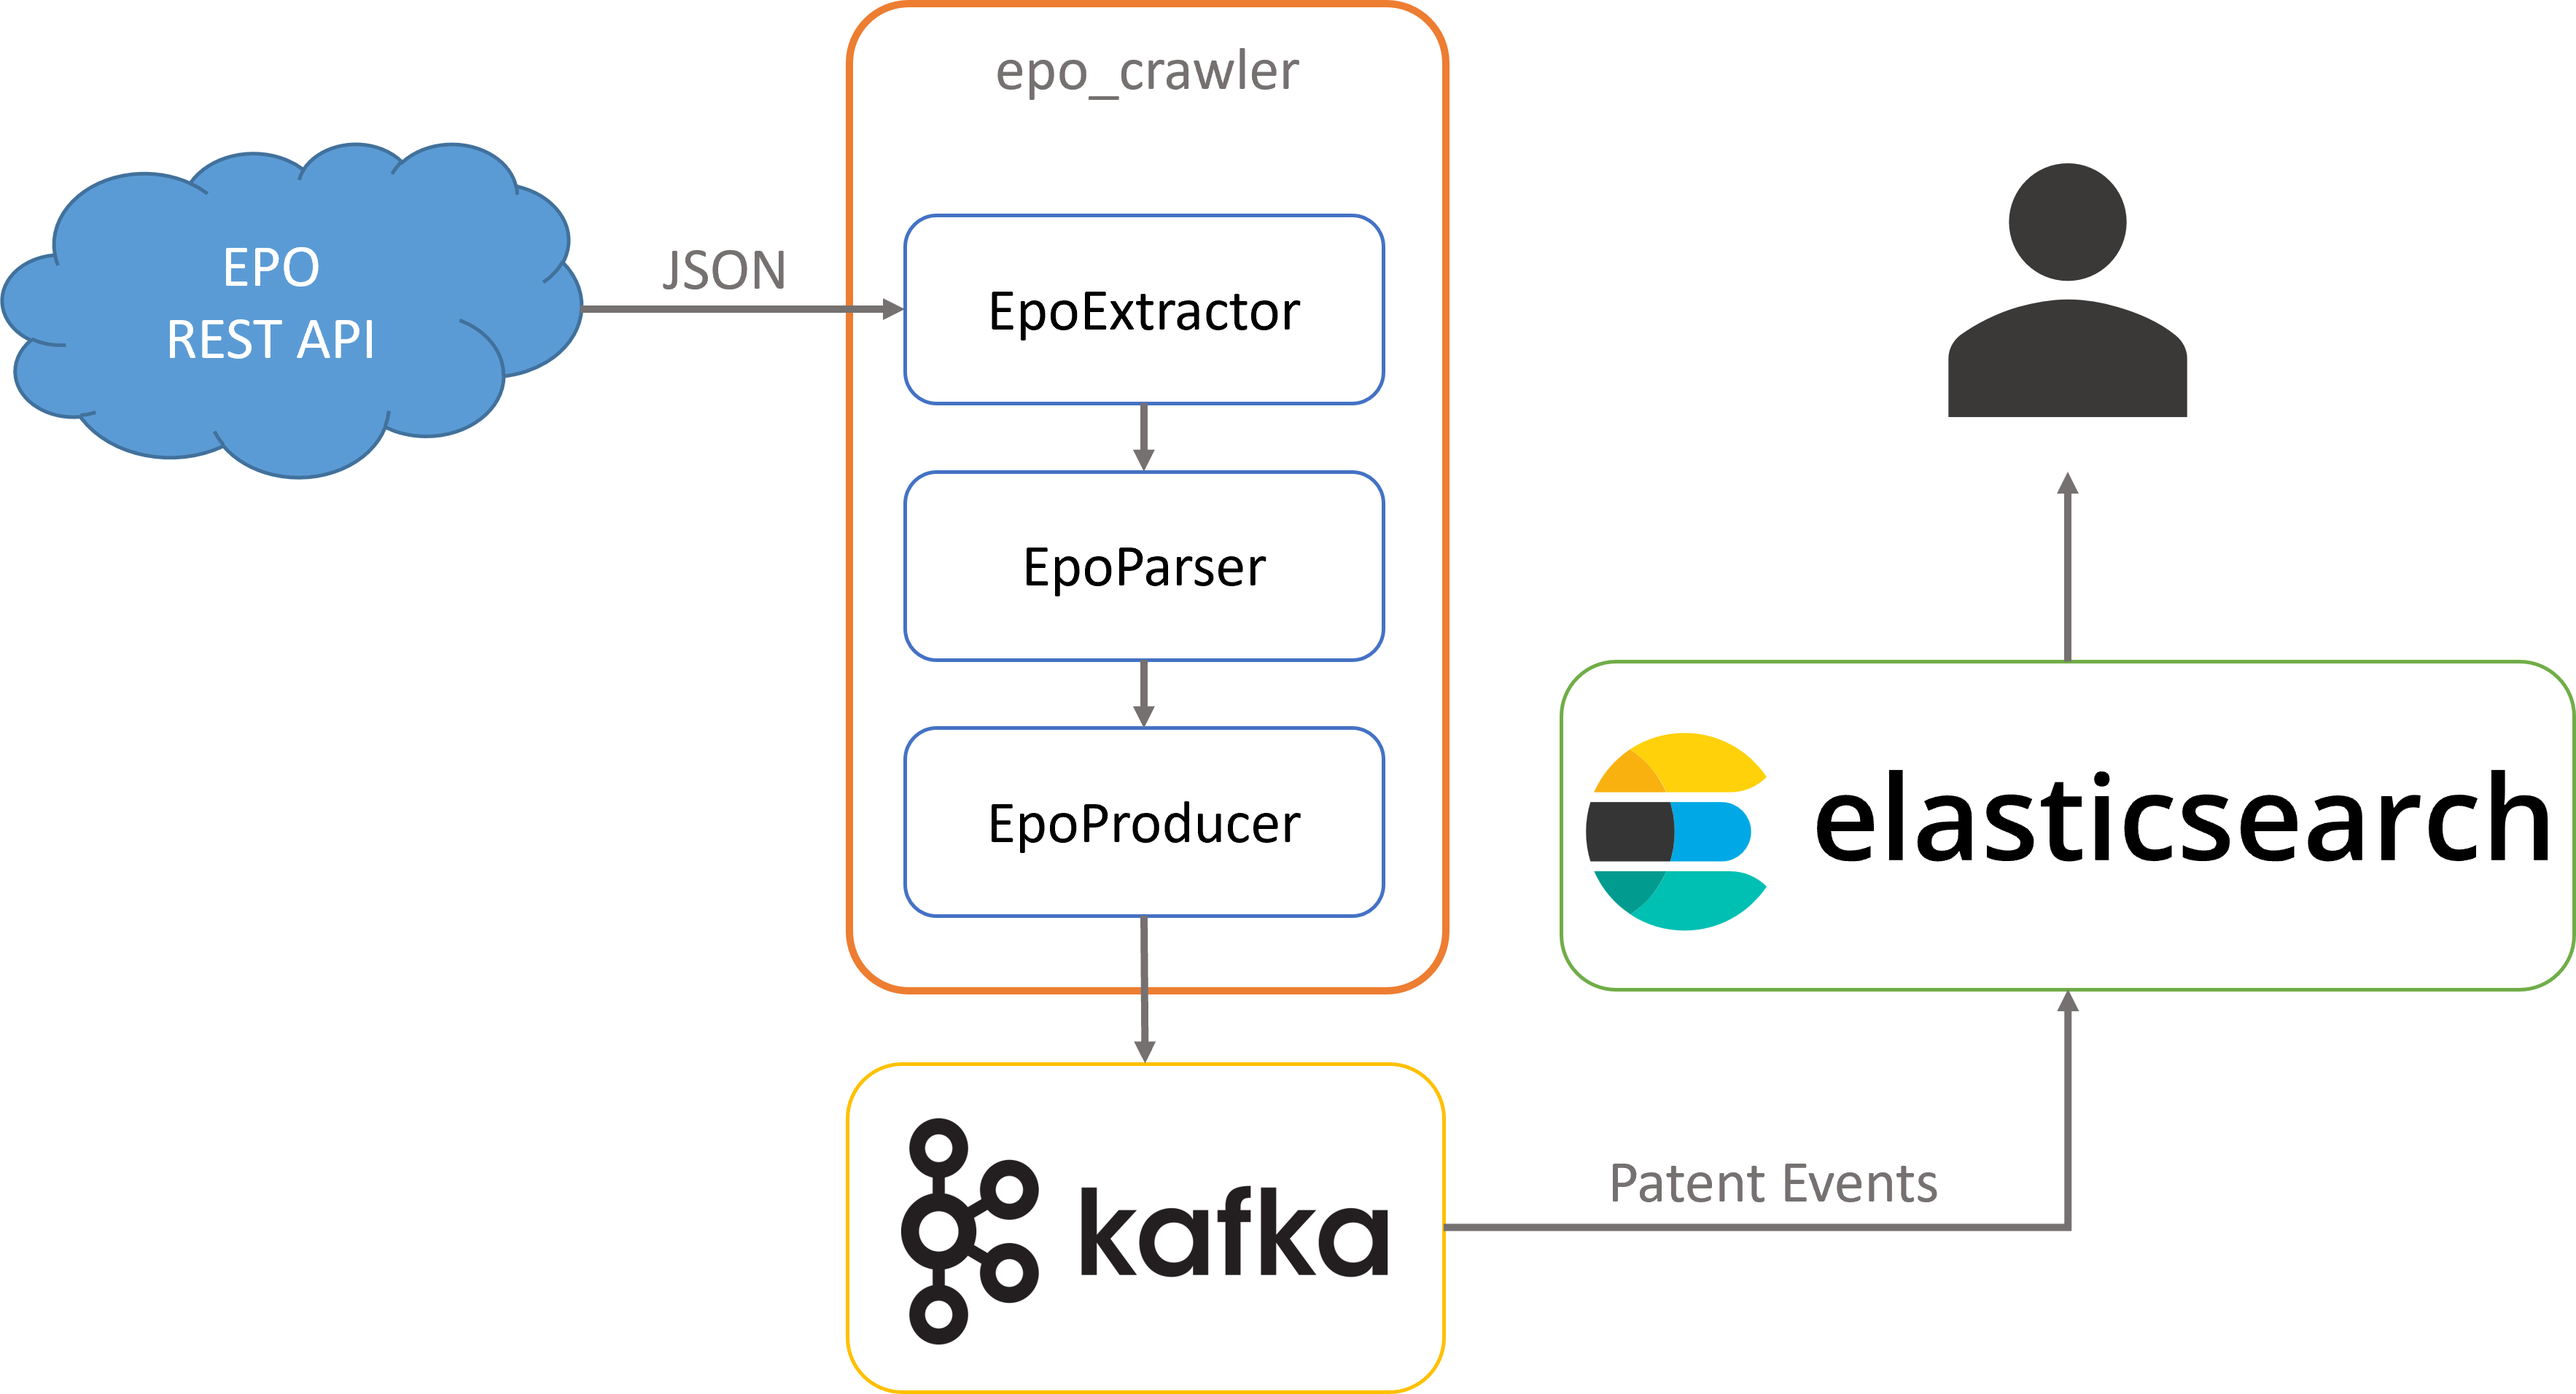
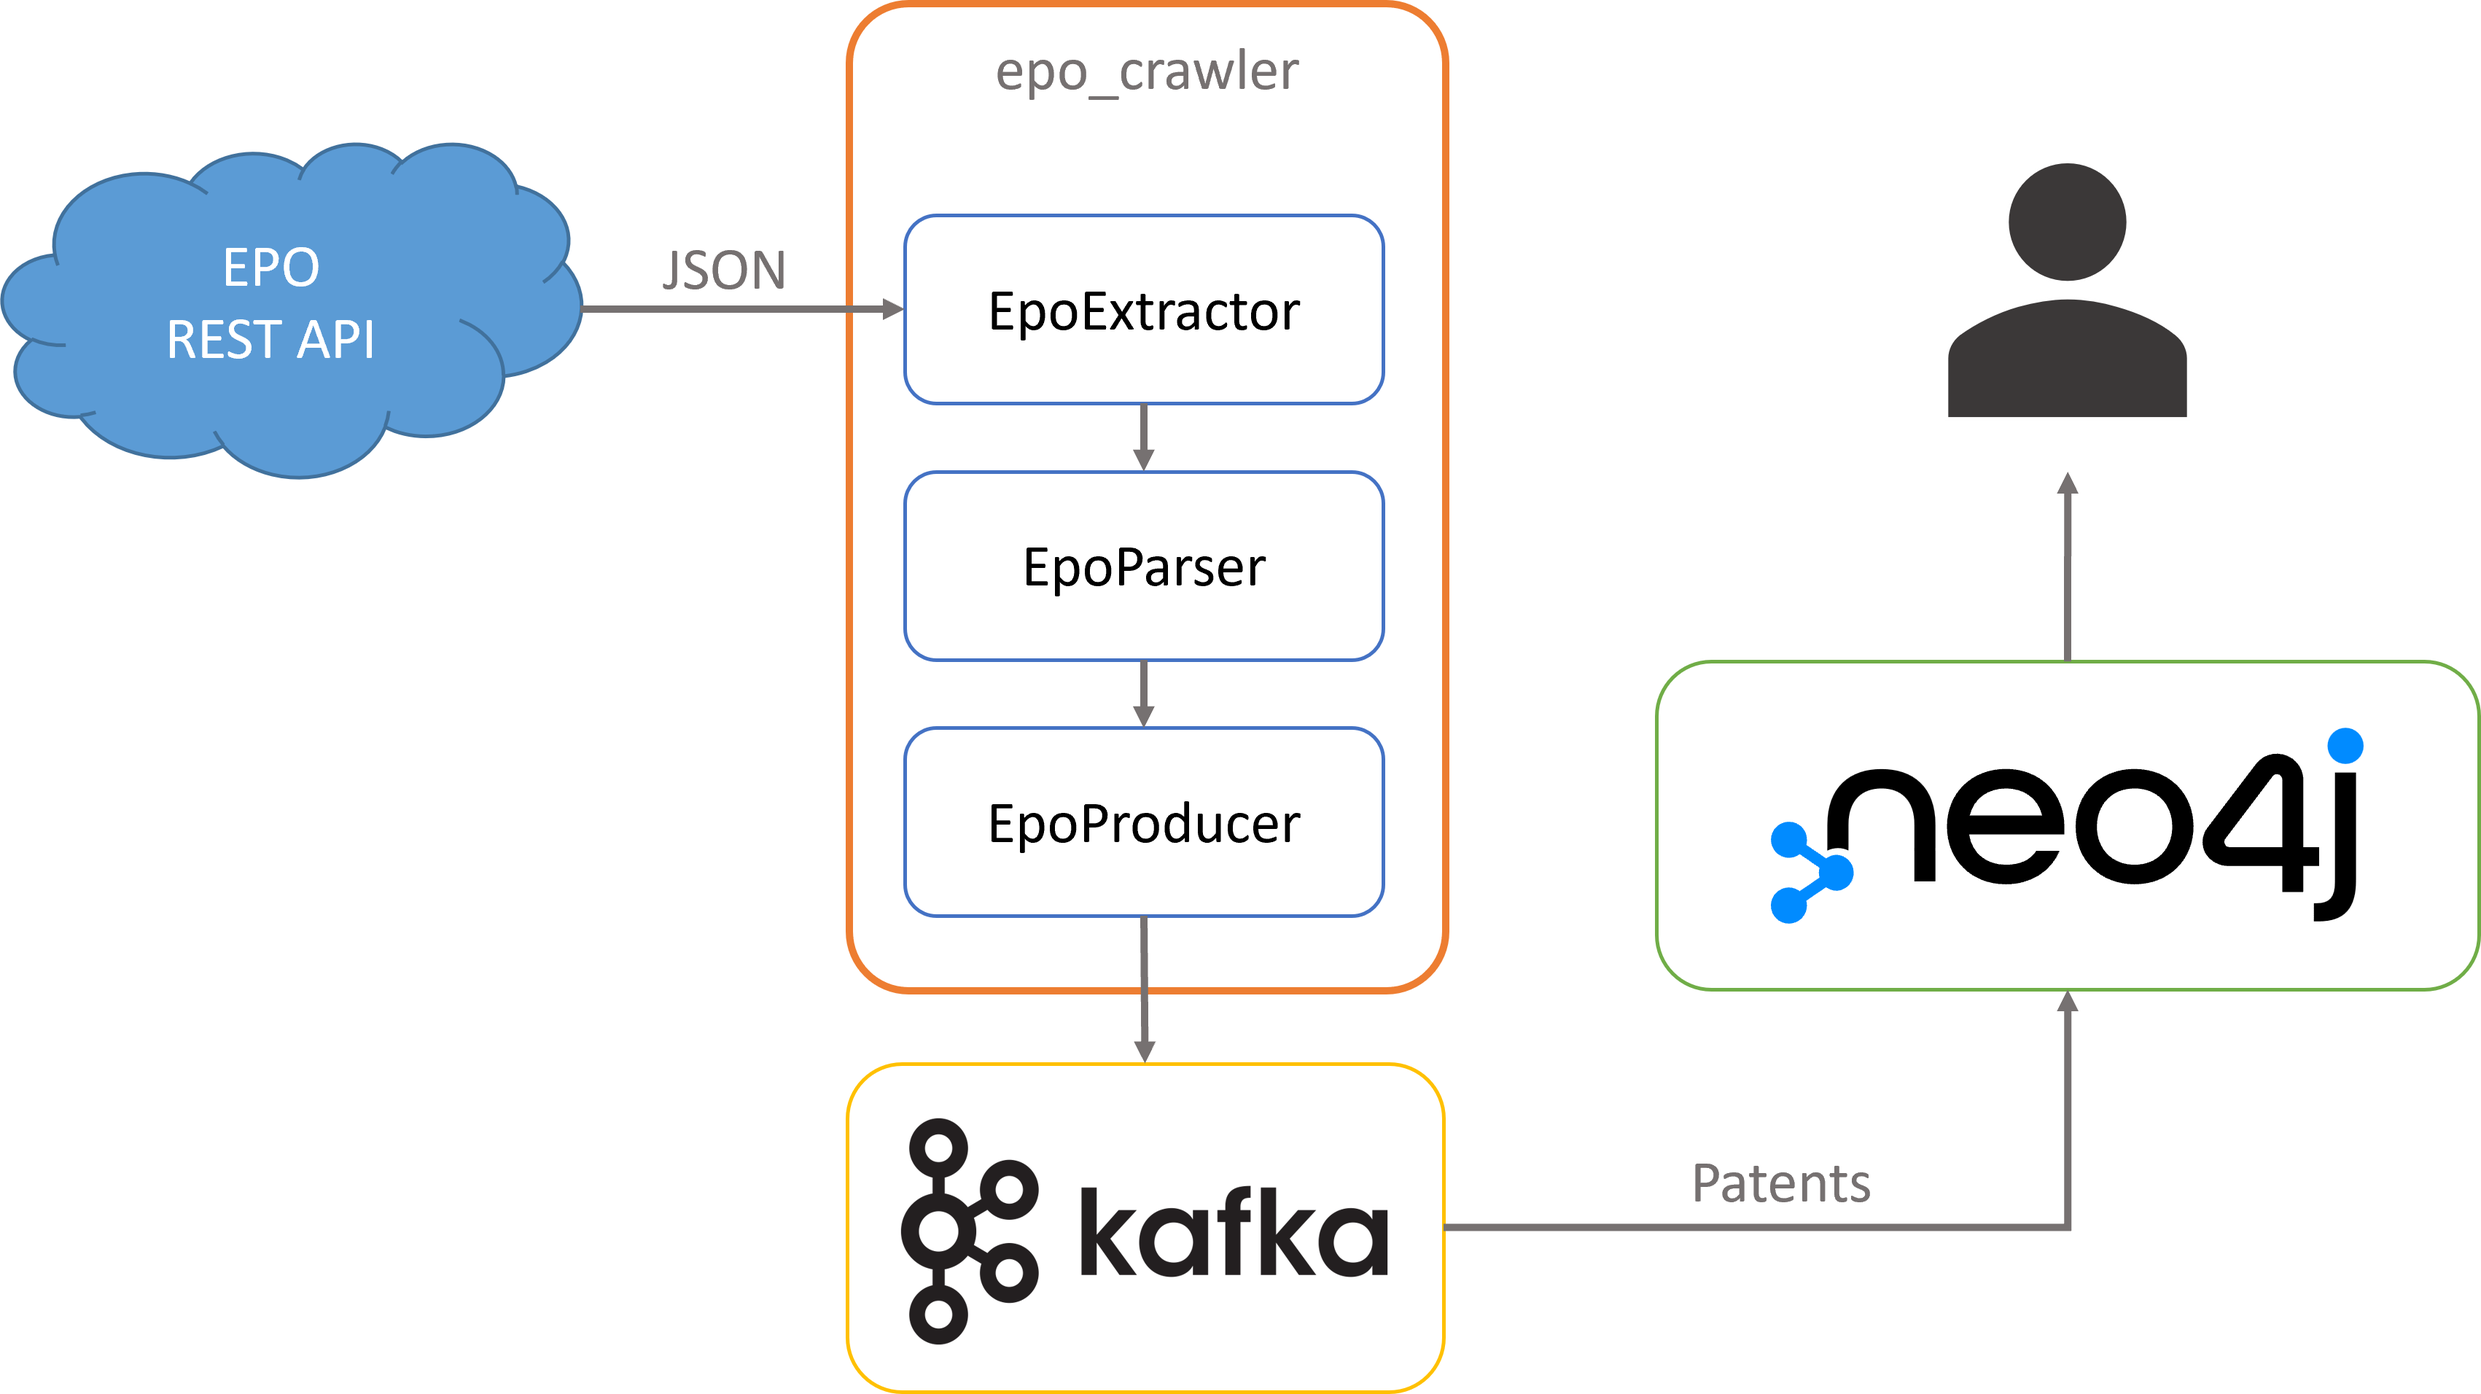
docs: adapt Readme

diff --git a/README.md b/README.md
@@ -48,6 +48,10 @@ It then serializes the `Announcement` object to bytes so that Kafka can read it 
 topic. After that, it increments the `rb_id` value and sends another GET request.
 This process continues until the end of the announcements is reached, and the crawler will stop automatically.
 
+### SQLite Dump Crawler
+
+The SQLite dump crawler fetches HRB data from a SQLite db file and produces the entries to the `announcements` topic in Kafka.
+
 ### announcements topic
 
 The `announcements` holds all the events (announcements) produced by the `rb_crawler`. Each message in a Kafka topic
@@ -80,6 +84,10 @@ The European Patent Office crawler (`epo_crawler`) first authenticates itself wi
 A `Patent` object is subsequently created based on the corresponding [protobuf schema](./proto/bakdata/corporate/v1/patent.proto) and its fields are filled with the extracted data from the website (see `EpoParser`). The crawler then serializes the `Patent` object to bytes so that Kafka can read it and produces it to the `patent-events` topic (see `EpoProducer`). After that, it increments the `epo_id` value and sends another GET request.
 This process continues until either the weekly quota limit of the EPO API is reached or the maximum `epo_id` (EP9999999) is passed.
 
+### ES Dump Crawler
+
+The ES dump crawler fetches EPO data from a ElasticSearch dump file created using [elasticdump](https://github.com/elasticsearch-dump/elasticsearch-dump) and produces the entries to the `patents` topic in Kafka.
+
 ### Kafka Connect
 
 [Kafka Connect](https://docs.confluent.io/platform/current/connect/index.html) is a tool to move large data sets into
@@ -107,21 +115,13 @@ In order to request the EPO portal using the `epo_crawler`, you have to set auth
 
 ### Infrastructure
 
-Use `docker-compose up -d` to start all the services: [Zookeeper](https://zookeeper.apache.org/)
-, [Kafka](https://kafka.apache.org/), [Schema
-Registry](https://docs.confluent.io/platform/current/schema-registry/index.html)
-, [Kafka REST Proxy](<(https://github.com/confluentinc/kafka-rest)>), [Kowl](https://github.com/redpanda-data/kowl),
-[Kafka Connect](https://docs.confluent.io/platform/current/connect/index.html),
-and [Elasticsearch](https://www.elastic.co/elasticsearch/). Depending on your system, it takes a couple of minutes
-before the services are up and running. You can use a tool
-like [lazydocker](https://github.com/jesseduffield/lazydocker)
-to check the status of the services.
+Use `docker compose up` to start all the services: [Zookeeper](https://zookeeper.apache.org/), [Kafka](https://kafka.apache.org/), [Schema Registry](https://docs.confluent.io/platform/current/schema-registry/index.html), [Kafka REST Proxy](<(https://github.com/confluentinc/kafka-rest)>), [Kowl](https://github.com/redpanda-data/kowl), [Kafka Connect](https://docs.confluent.io/platform/current/connect/index.html), and [Neo4j](https://neo4j.com/). Depending on your system, it takes a couple of minutes before the services are up and running. You can use a tool like [lazydocker](https://github.com/jesseduffield/lazydocker) to check the status of the services.
 
 ### Kafka Connect
 
-After all the services are up and running, you need to configure Kafka Connect to use the Elasticsearch sink connector.
-The config file is a JSON formatted file. We provided basic configuration files for [corporate events](./connect/elastic-sink-corporate.json) and for [patent events](./connect/elastic-sink-patent.json).
-You can find more information about the configuration properties on the [official documentation page](https://docs.confluent.io/kafka-connect-elasticsearch/current/overview.html).
+After all the services are up and running, you need to configure Kafka Connect to use the Neo4j sink connector.
+The config file is a JSON formatted file. We provided basic configuration files for [announcements](./connect/neo4j-sink-announcements.json) and for [patents](./connect/neo4j-sink-patents.json).
+You can find more information about the configuration properties on the [official documentation page](https://neo4j.com/labs/kafka/4.0/kafka-connect/).
 
 To start the connector, you need to push the JSON config files to Kafka. You can either use the UI dashboard in Kowl or use the [bash script provided](./connect/push-config.sh). It is possible to remove a connector by deleting it through Kowl's UI dashboard or calling the deletion API in the [bash script provided](./connect/delete-config.sh).
 
@@ -151,6 +151,30 @@ Options:
   --help                          Show this message and exit.
 ```
 
+### SQLite Dump Crawler
+
+You can start the crawler with the command below:
+
+```shell
+poetry run python sqlite_dump_crawler/main.py -f $FILE
+```
+
+The `--file` option is a file path to a SQLite dump file containing HRB data entries (crawled by the RB Crawler).
+
+The `--skip` option takes an integer. This integer defines how many entries of the SQLite dump file should be skipped.
+
+You can use the `--help` option to see the usage:
+
+```
+Usage: main.py [OPTIONS]
+
+Options:
+  -f, --file TEXT     A path to a SQLite file containing HRB announcements.
+                      [required]
+  -s, --skip INTEGER  A number how much entries should be skipped
+  --help              Show this message and exit.
+```
+
 ### EPO Crawler
 
 You can start the crawler with the command below:
@@ -177,41 +201,48 @@ Options:
   --help                  Show this message and exit.
 ```
 
+### ES Dump Crawler
+
+You can start the crawler with the command below:
+
+```shell
+poetry run python es_dump_crawler/main.py -f $FILE
+```
+
+The `--file` option is a file path to an ElasticSearch dump file created with elasticdump containing EPO data entries (crawled by the EPO Crawler).
+
+You can use the `--help` option to see the usage:
+
+```
+Usage: main.py [OPTIONS]
+
+Options:
+  -f, --file TEXT  A path to an elasticdump file containing EPO patents.
+                   [required]
+  --help           Show this message and exit.
+```
+
 ## Query data
 
 ### Kowl
 
-[Kowl](https://github.com/redpanda-data/kowl) is a web application that helps you manage and debug your Kafka workloads
-effortlessly. You can create, update, and delete Kafka resources like Topics and Kafka Connect configs.
-You can see Kowl's dashboard in your browser under http://localhost:8080.
+[Kowl](https://github.com/redpanda-data/kowl) is a web application that helps you manage and debug your Kafka workloads effortlessly. You can create, update, and delete Kafka resources like Topics and Kafka Connect configs. You can see Kowl's dashboard in your browser under http://localhost:8080.
 
-### Elasticsearch
+### Neo4j
 
-To query the data from Elasticsearch, you can use
-the [query DSL](https://www.elastic.co/guide/en/elasticsearch/reference/7.17/query-dsl.html) of elastic. For example:
+To query the data from Neo4j, you can use the browser GUI ([http://localhost:7474](http://localhost:7474)) of Neo4j. Connect to the database with `neo4j` as username and `test` as password. For example:
 
-```shell
-curl -X GET "localhost:9200/_search?pretty" -H 'Content-Type: application/json' -d'
-{
-    "query": {
-        "match": {
-            <field>
-        }
-    }
-}
-'
+```cypher
+MATCH (a:Announcement)-->(c:Company { name: <name> })<--(p:Patent)
+RETURN a, c, p
 ```
 
-`<field>` is the field you wish to search. For example:
-
-```
-"reference_id":"HRB 41865"
-```
+`<name>` is the company name you wish to search. For example: `"SAP AG"`.
 
 ## Teardown
 
 You can stop and remove all the resources by running:
 
 ```shell
-docker-compose down
+docker compose down
 ```
